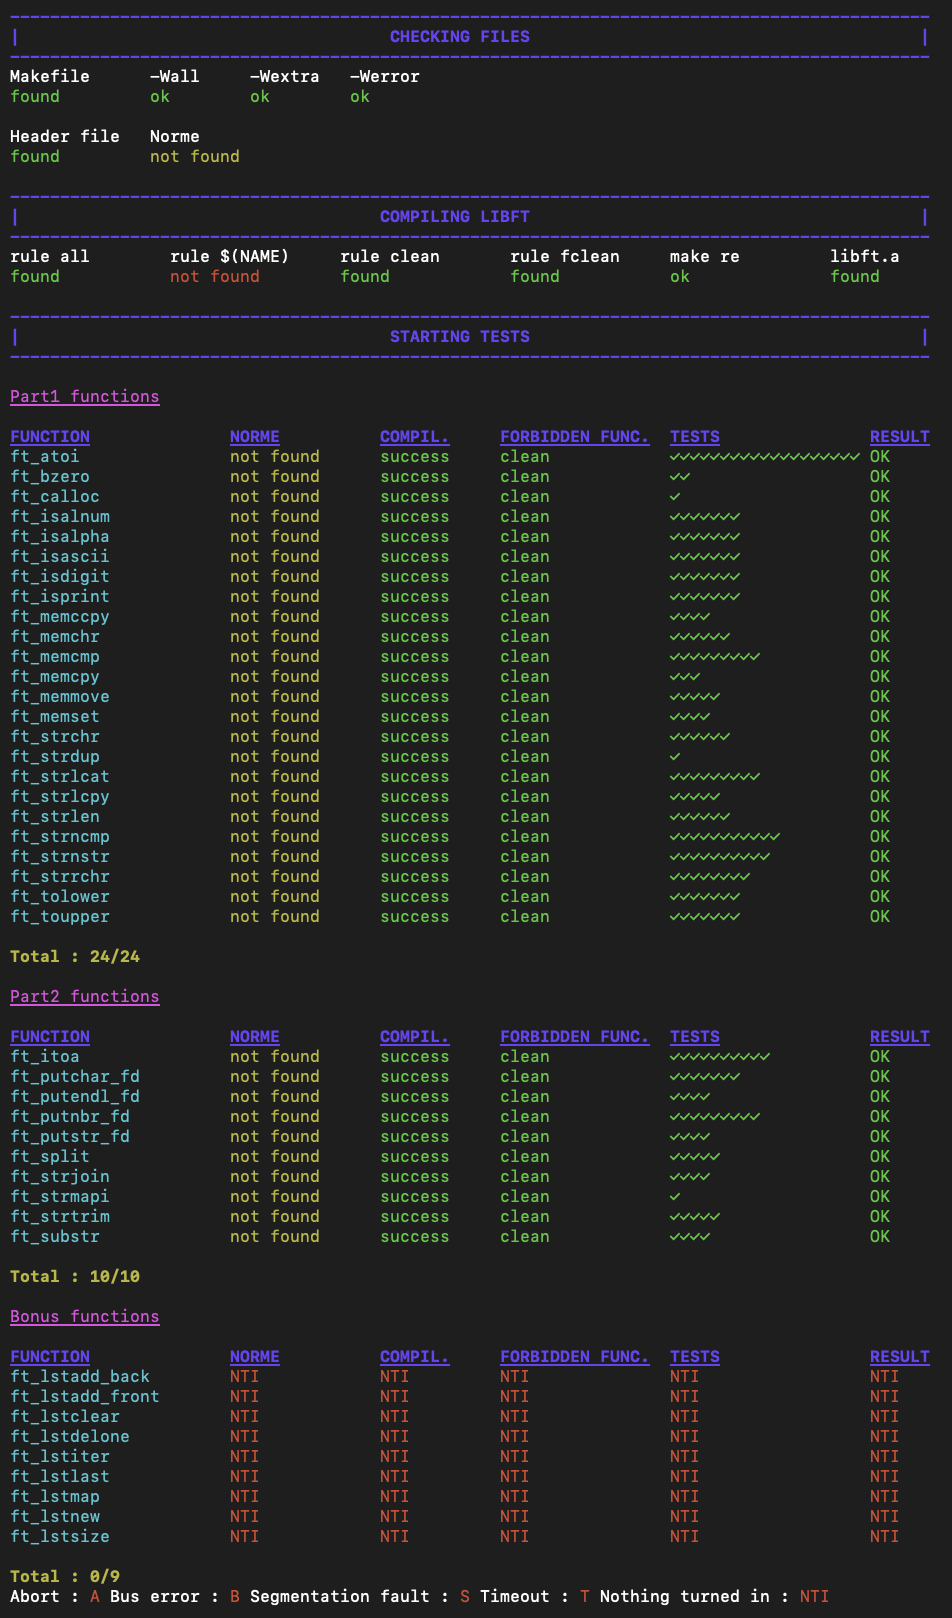
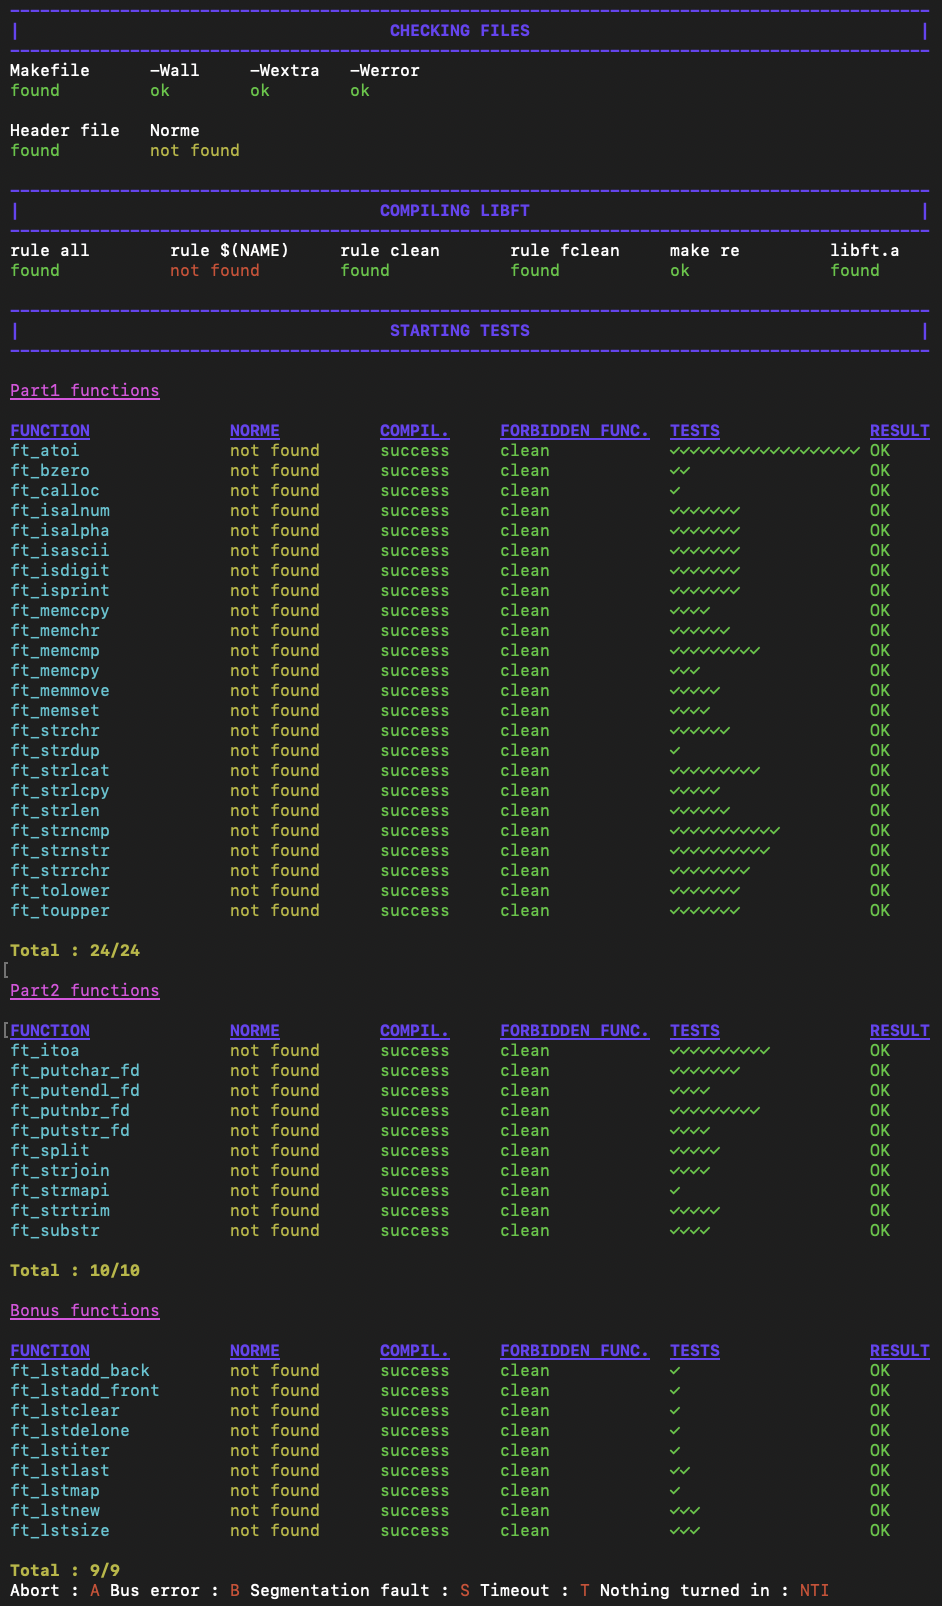
add bonus (all ft_lst*.c)

diff --git a/libft.h b/libft.h
@@ -6,7 +6,7 @@
 /*   By: cmaginot <cmaginot@student.42.fr>          +#+  +:+       +#+        */
 /*                                                +#+#+#+#+#+   +#+           */
 /*   Created: 2021/04/15 17:31:56 by cmaginot          #+#    #+#             */
-/*   Updated: 2021/04/19 16:59:53 by cmaginot         ###   ########.fr       */
+/*   Updated: 2021/04/20 21:53:36 by cmaginot         ###   ########.fr       */
 /*                                                                            */
 /* ************************************************************************** */
 
@@ -20,13 +20,13 @@
 /* ************************************************************************** */
 /*                                   DEFINE                                   */
 /* ************************************************************************** */
-# define 					MIN(x, y) ((x <= y) ? x : y);
-# define 					MAX(x, y) ((x >= y) ? x : y);
+# define					MIN(x, y) ((x <= y) ? x : y)
+# define					MAX(x, y) ((x >= y) ? x : y)
 /* ************************************************************************** */
 /*                                  TYPEDEF                                   */
 /* ************************************************************************** */
 typedef unsigned long int	size_t;
-typedef struct 				s_list
+typedef struct				s_list
 {
 	void					*content;
 	struct s_list 			*next;
@@ -44,7 +44,7 @@ void						*ft_memchr(const void *s, int c, size_t n);
 int							ft_memcmp(const void *s1, const void *s2, size_t n);
 size_t						ft_strlen(const char *s);
 int							ft_isalpha(int c);
-int 						ft_isdigit(int c);
+int							ft_isdigit(int c);
 int							ft_isalnum(int c);
 int							ft_isascii(int c);
 int							ft_isprint(int c);
@@ -72,15 +72,25 @@ char						*ft_strjoin(char const *s1, char const *s2);
 char						*ft_strtrim(char const *s1, char const *set);
 char						**ft_split(char const *s, char c);
 char						*ft_itoa(int n);
-char 						*ft_strmapi(char const *s, 
+char						*ft_strmapi(char const *s, 
 								char (*f)(unsigned int, char));
-void 						ft_putchar_fd(char c, int fd);
+void						ft_putchar_fd(char c, int fd);
 void						ft_putstr_fd(char *s, int fd);
 void						ft_putendl_fd(char *s, int fd);
 void						ft_putnbr_fd(int n, int fd);
+t_list						*ft_lstmap(t_list *lst, void *(*f)(void *),
+								void (*del)(void *));
 /* ************************************************************************** */
 /*                                 BONUS PART                                 */
 /* ************************************************************************** */
+t_list						*ft_lstnew(void *content);
+void						ft_lstadd_front(t_list **alst, t_list *new);
+int							ft_lstsize(t_list *lst);
+t_list						*ft_lstlast(t_list *lst);
+void						ft_lstadd_back(t_list **alst, t_list *new);
+void						ft_lstdelone(t_list *lst, void (*del)(void *));
+void						ft_lstclear(t_list **lst, void (*del)(void*));
+void						ft_lstiter(t_list *lst, void (*f)(void *));
 /* ************************************************************************** */
 /*                               PERSONNAL PART                               */
 /* ************************************************************************** */
@@ -99,8 +109,9 @@ char						*ft_strcat(char *s1, const char *s2);
 char						*ft_strstr(const char *haystack, 
 								const char *needle);
 char						*ft_strndup(const char *s1, size_t n);
-void 						ft_putchar(char c);
+void						ft_putchar(char c);
 void						ft_putstr(char *s);
 void						ft_putendl(char *s);
 void						ft_putnbr(int n);
+
 #endif

diff --git a/ft_lstmap.c b/ft_lstmap.c
@@ -6,8 +6,23 @@
 /*   By: cmaginot <cmaginot@student.42.fr>          +#+  +:+       +#+        */
 /*                                                +#+#+#+#+#+   +#+           */
 /*   Created: 2021/04/19 02:15:56 by cmaginot          #+#    #+#             */
-/*   Updated: 2021/04/19 16:41:54 by cmaginot         ###   ########.fr       */
+/*   Updated: 2021/04/20 23:01:47 by cmaginot         ###   ########.fr       */
 /*                                                                            */
 /* ************************************************************************** */
 
 #include "libft.h"
+
+t_list	*ft_lstmap(t_list *lst, void *(*f)(void *), void (*del)(void *))
+{
+	t_list *newlst;
+
+	(void)del;
+	if (lst == 0 || f == 0 || del == 0)
+		return (0);
+	while (lst != 0)
+	{
+		ft_lstadd_back(&newlst, ft_lstnew(f(lst->content)));
+		lst = lst->next;
+	}
+	return (newlst);
+}

diff --git a/ft_lstadd_back.c b/ft_lstadd_back.c
@@ -6,8 +6,24 @@
 /*   By: cmaginot <cmaginot@student.42.fr>          +#+  +:+       +#+        */
 /*                                                +#+#+#+#+#+   +#+           */
 /*   Created: 2021/04/19 02:15:56 by cmaginot          #+#    #+#             */
-/*   Updated: 2021/04/19 16:41:37 by cmaginot         ###   ########.fr       */
+/*   Updated: 2021/04/20 22:45:22 by cmaginot         ###   ########.fr       */
 /*                                                                            */
 /* ************************************************************************** */
 
 #include "libft.h"
+
+void	ft_lstadd_back(t_list **alst, t_list *new)
+{
+	t_list *tmplst;
+
+	if (alst != 0)
+	{
+		if (*alst == 0)
+			*alst = new;
+		else if (new != 0)
+		{
+			tmplst = ft_lstlast(*alst);
+			tmplst->next = new;
+		}
+	}
+}

diff --git a/ft_lstclear.c b/ft_lstclear.c
@@ -6,8 +6,23 @@
 /*   By: cmaginot <cmaginot@student.42.fr>          +#+  +:+       +#+        */
 /*                                                +#+#+#+#+#+   +#+           */
 /*   Created: 2021/04/19 02:15:56 by cmaginot          #+#    #+#             */
-/*   Updated: 2021/04/19 16:41:46 by cmaginot         ###   ########.fr       */
+/*   Updated: 2021/04/20 21:43:14 by cmaginot         ###   ########.fr       */
 /*                                                                            */
 /* ************************************************************************** */
 
 #include "libft.h"
+
+void	ft_lstclear(t_list **lst, void (*del)(void*))
+{
+	t_list	*lstnext;
+
+	if (lst != 0)
+	{
+		while (*lst != 0)
+		{
+			lstnext = (*lst)->next;
+			ft_lstdelone(*lst, del);
+			*lst = lstnext;
+		}
+	}
+}

diff --git a/ft_split.c b/ft_split.c
@@ -6,7 +6,7 @@
 /*   By: cmaginot <cmaginot@student.42.fr>          +#+  +:+       +#+        */
 /*                                                +#+#+#+#+#+   +#+           */
 /*   Created: 2021/03/25 14:27:03 by cmaginot          #+#    #+#             */
-/*   Updated: 2021/04/19 16:52:58 by cmaginot         ###   ########.fr       */
+/*   Updated: 2021/04/19 17:03:57 by cmaginot         ###   ########.fr       */
 /*                                                                            */
 /* ************************************************************************** */
 
@@ -52,6 +52,7 @@ static char		**ft_splitting(char **strs, char const *s, char c, int strs_l)
 		strs[i++][j] = 0;
 	}
 	strs[i] = 0;
+	return (strs);
 }
 
 char			**ft_split(char const *s, char c)

diff --git a/ft_lstnew.c b/ft_lstnew.c
@@ -6,8 +6,19 @@
 /*   By: cmaginot <cmaginot@student.42.fr>          +#+  +:+       +#+        */
 /*                                                +#+#+#+#+#+   +#+           */
 /*   Created: 2021/04/19 02:15:56 by cmaginot          #+#    #+#             */
-/*   Updated: 2021/04/19 16:41:56 by cmaginot         ###   ########.fr       */
+/*   Updated: 2021/04/20 22:45:59 by cmaginot         ###   ########.fr       */
 /*                                                                            */
 /* ************************************************************************** */
 
 #include "libft.h"
+
+t_list	*ft_lstnew(void *content)
+{
+	t_list *lst;
+
+	if (!(lst = malloc(sizeof(t_list))))
+		return (0);
+	lst->content = content;
+	lst->next = 0;
+	return (lst);
+}

diff --git a/ft_lstlast.c b/ft_lstlast.c
@@ -6,8 +6,20 @@
 /*   By: cmaginot <cmaginot@student.42.fr>          +#+  +:+       +#+        */
 /*                                                +#+#+#+#+#+   +#+           */
 /*   Created: 2021/04/19 02:15:56 by cmaginot          #+#    #+#             */
-/*   Updated: 2021/04/19 16:41:52 by cmaginot         ###   ########.fr       */
+/*   Updated: 2021/04/20 22:46:48 by cmaginot         ###   ########.fr       */
 /*                                                                            */
 /* ************************************************************************** */
 
 #include "libft.h"
+
+t_list	*ft_lstlast(t_list *lst)
+{
+	int len;
+
+	len = ft_lstsize(lst);
+	if (len == 0)
+		return (0);
+	while (len-- > 1)
+		lst = lst->next;
+	return (lst);
+}

diff --git a/ft_lstsize.c b/ft_lstsize.c
@@ -6,8 +6,23 @@
 /*   By: cmaginot <cmaginot@student.42.fr>          +#+  +:+       +#+        */
 /*                                                +#+#+#+#+#+   +#+           */
 /*   Created: 2021/04/19 02:15:56 by cmaginot          #+#    #+#             */
-/*   Updated: 2021/04/19 16:41:59 by cmaginot         ###   ########.fr       */
+/*   Updated: 2021/04/20 21:05:47 by cmaginot         ###   ########.fr       */
 /*                                                                            */
 /* ************************************************************************** */
 
 #include "libft.h"
+
+int	ft_lstsize(t_list *lst)
+{
+	int i;
+
+	if (lst == 0)
+		return (0);
+	i = 1;
+	while (lst->next != 0)
+	{
+		i++;
+		lst = lst->next;
+	}
+	return (i);
+}

diff --git a/ft_lstadd_front.c b/ft_lstadd_front.c
@@ -6,8 +6,19 @@
 /*   By: cmaginot <cmaginot@student.42.fr>          +#+  +:+       +#+        */
 /*                                                +#+#+#+#+#+   +#+           */
 /*   Created: 2021/04/19 02:15:56 by cmaginot          #+#    #+#             */
-/*   Updated: 2021/04/19 16:41:44 by cmaginot         ###   ########.fr       */
+/*   Updated: 2021/04/20 22:45:31 by cmaginot         ###   ########.fr       */
 /*                                                                            */
 /* ************************************************************************** */
 
 #include "libft.h"
+
+void	ft_lstadd_front(t_list **alst, t_list *new)
+{
+	if (*alst == 0)
+		*alst = new;
+	else if (new != 0)
+	{
+		new->next = *alst;
+		*alst = new;
+	}
+}

diff --git a/ft_lstiter.c b/ft_lstiter.c
@@ -6,8 +6,18 @@
 /*   By: cmaginot <cmaginot@student.42.fr>          +#+  +:+       +#+        */
 /*                                                +#+#+#+#+#+   +#+           */
 /*   Created: 2021/04/19 02:15:56 by cmaginot          #+#    #+#             */
-/*   Updated: 2021/04/19 16:41:50 by cmaginot         ###   ########.fr       */
+/*   Updated: 2021/04/20 22:23:23 by cmaginot         ###   ########.fr       */
 /*                                                                            */
 /* ************************************************************************** */
 
 #include "libft.h"
+
+void	ft_lstiter(t_list *lst, void (*f)(void *))
+{
+	if (lst != 0 || f != 0)
+		while (lst != 0)
+		{
+			f(lst->content);
+			lst = lst->next;
+		}
+}

diff --git a/ft_lstdelone.c b/ft_lstdelone.c
@@ -6,8 +6,14 @@
 /*   By: cmaginot <cmaginot@student.42.fr>          +#+  +:+       +#+        */
 /*                                                +#+#+#+#+#+   +#+           */
 /*   Created: 2021/04/19 02:15:56 by cmaginot          #+#    #+#             */
-/*   Updated: 2021/04/19 16:41:48 by cmaginot         ###   ########.fr       */
+/*   Updated: 2021/04/20 22:46:14 by cmaginot         ###   ########.fr       */
 /*                                                                            */
 /* ************************************************************************** */
 
 #include "libft.h"
+
+void	ft_lstdelone(t_list *lst, void (*del)(void *))
+{
+	del(lst->content);
+	free(lst);
+}
